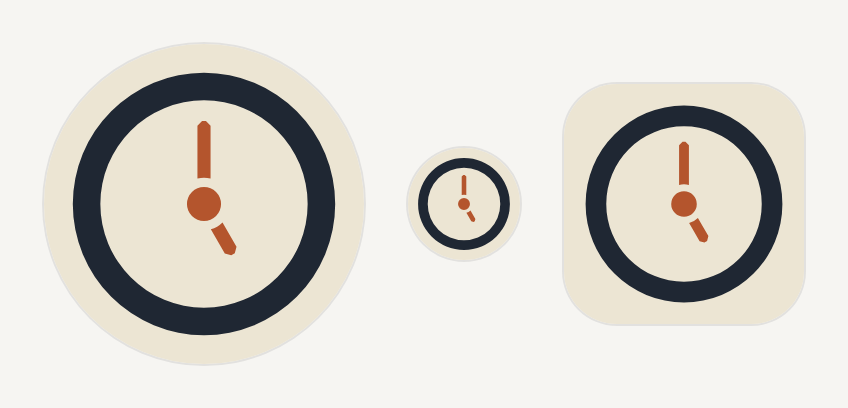
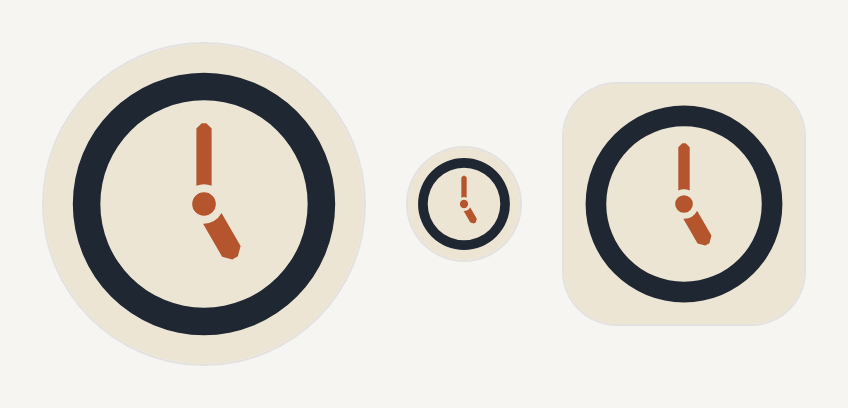
Square clock: round-1 blind reads written up; clock face redrawn against the "!" reading
Claude-Session: https://claude.ai/code/session_01DEMsE9viXMfy2PBdc6fmky

diff --git a/designs/mark/square/RESULTS.md b/designs/mark/square/RESULTS.md
@@ -1,0 +1,66 @@
+# The clock in a square: blind reads
+
+The owner, 31 Oct 2026: "the clock logo looks bad when in a square because the arms force it to be super zoomed out.
+What are our options/alternatives?" The stand-alone symbol is 11.8 x 25 mm, so in a square the hands set the scale
+and the ring ends up about a third of the tile. `build.cjs` draws the alternatives from the final logo's own geometry
+(its clock matches `../final/the-o/symbol-light.svg` exactly); this file records how each one reads.
+
+## Method
+
+The same protocol as `../clean-reads/RESULTS.md`, adapted to a square: each reader was a separate fresh agent (Agent
+tool, not the Workflow tool, so no chat message was passed on) given one image and the prompt below, nothing else.
+Images: `blind/<id>.png`, copied to neutral file names (`/tmp/br/k2.png` and so on) so the file name gave nothing
+away. Each shows the light version as a 160 px and a 56 px profile circle and a 120 px app icon.
+
+Symbol prompt, word for word:
+
+> Quick first-impression check, about a minute of work. Open this one image with the Read tool: [path]
+> Don't open, list or search any other files. It's one small emblem, shown as a profile picture and an app icon.
+> Reply with only these four answers:
+> 1. What is it a picture of? One short phrase.
+> 2. How sure are you, 1 to 10?
+> 3. What else could it be mistaken for, if anything?
+> 4. Does it suggest any letter or number? If so, which?
+
+The stacked name used the lockup prompt from `../clean-reads/RESULTS.md` ("What does it say? ... Describe the first
+character ..."), with "the way you'd glance at a profile picture".
+
+One leak, the same for every image in round 1: the readers' working folder was
+`/home/user/offshft/designs/mark/square/blind`, and 4 of the 15 said they'd noticed "offshft" in it, which may have
+nudged them toward a clock. Round 2 ran from `/home/user`.
+
+## Round 1 (31 Oct 2026)
+
+| Option | Seen as (their words, shortened) | Sure | Also mistaken for |
+|---|---|---|---|
+| 0 As it is | clock hands around a big hub, no face, 5:00 | 6 | magnifying glass, target, eye, vinyl record, stopwatch crown; Q |
+| 0 As it is | clock hands around a centre hub, 5:00 | 7 | magnifying glass, power button, target, frying pan with an egg; Q |
+| 0 As it is | two clock hands around a hub, 5:00 | 6 | magnifying glass ("especially small"), fried egg in a skillet, target; Q |
+| 1 Hands off the edge | a clock or timer dial, marks at 12 and 5 | 4 | magnifying glass, target, vinyl, power button; "small: a plain ring or target"; Q |
+| 1 Hands off the edge | a clock or timer dial | 5 | Q, vinyl with tonearm, bullseye, lens; "small: a bullseye with a bar on top" |
+| 1 Hands off the edge | a clock or dial face | 5 | "a ring with two sticks"; bullseye, vinyl, magnifier, power button; "small: a donut"; Q |
+| 2 Shorter hands | a stylized clock, about 5 o'clock | 6 | magnifying glass ("the standard search symbol"), Q, stopwatch, power button |
+| 2 Shorter hands | a stylized clock, about 5:00 | 6 | Q, magnifying glass ("stronger small"), stopwatch, donut, fried egg; "!" |
+| 2 Shorter hands | a stylized clock or timer face | 5 | magnifying glass, Q, stopwatch, power icon, Mars symbol; 5:00 or 12:25 |
+| 3 Clock face | a clock face showing 5:00 | 9 | timer, gauge; "!" in a circle, like an alert icon, "most at the small size" |
+| 3 Clock face | an analog clock face, about 5:00 | 9 | a generic "time", "recent" or "history" icon, gauge, power button; "!" |
+| 3 Clock face | an analog clock face, about 5:00 | 9 | "most likely a circled exclamation mark, the usual alert icon"; power button |
+
+| Option | Read as | Sure | First character | Anything odd |
+|---|---|---|---|---|
+| 4 Stacked name | OFF SHFT | 9 | navy ring, orange dot, hands at 12 and about 5 ("looks like clock hands") | the Q-tail ("QFF"); SHFT reads as a misspelling of SHIFT; tiny details in the small circle |
+| 4 Stacked name | OFF SHFT | 8 | "a clock face with its hands poking out" | SHFT without the I; Q or magnifying glass at the small size |
+| 4 Stacked name | OFF SHFT | 9 | a clock face, hands at 12 and about 5 | the Q-tail ("QFF"), more in the small circle; the missing I |
+
+Averages (how sure each reader was that it's a clock): as it is 6.3 (the same as the 25 mm symbol on fabric in
+`../clean-reads/RESULTS.md`), hands off the edge 4.7, shorter hands 5.7, clock face 9.0. Stacked name: OFF SHFT
+3 out of 3 at 8.7, and all three saw the clock in the O without being asked.
+
+What it means:
+- **Making the symbol bigger costs the clock.** Cropping the hands or shortening them both read worse than the symbol
+  as it is (4.7 and 5.7 against 6.3), and the magnifying glass, the Q and the target get stronger as it gets smaller.
+  The hands standing out of the ring are what make it a clock; they're also what make it tall.
+- **The clock face reads best (9 out of 10, 3 of 3)** but all three readers also saw a "!": the long hand floats over
+  a big dot. Two called it a generic time or alert icon.
+- **The stacked name fills the square and says the name**, with the clock still seen in the O. It has the same Q-tail
+  and SHIFT remarks as every lockup test.
